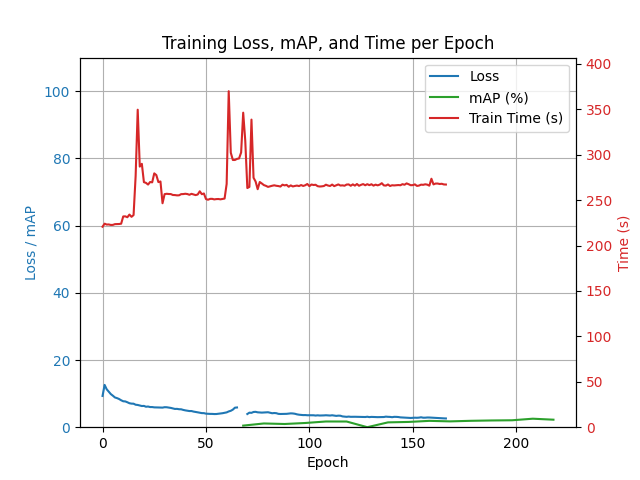
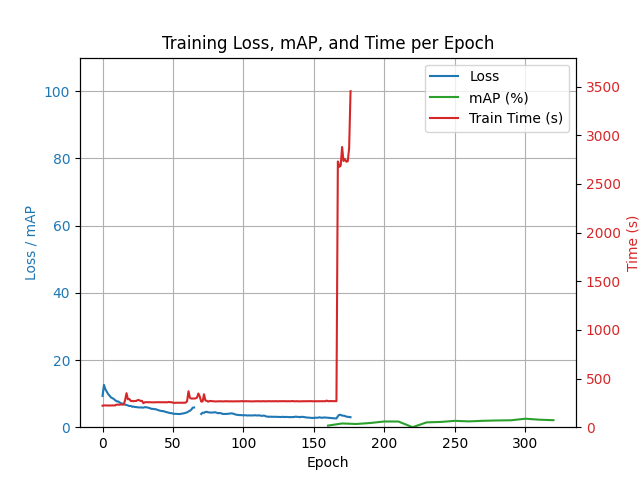
override metric if loading older epoch

diff --git a/YOLOv1/utils.py b/YOLOv1/utils.py
@@ -133,7 +133,6 @@ def batch_to_mAP_list(preds: torch.Tensor, targets: torch.Tensor):
     return preds_list, targets_list
 
 
-
 def plot_training_metrics(train_losses, map_scores, train_times, start_epoch, model_name, save_dir="images"):
     os.makedirs(f"{save_dir}/{model_name}", exist_ok=True)
 
@@ -142,7 +141,11 @@ def plot_training_metrics(train_losses, map_scores, train_times, start_epoch, mo
     # Loss and mAP on left axis
     ax1.plot(train_losses, label='Loss', color='tab:blue')
     if map_scores:
-        map_epochs = list(range(start_epoch + 10, start_epoch + 10 + 10 * len(map_scores), 10))
+        map_epochs = list(range(
+            start_epoch + config.EVAL_MAP_N,
+            start_epoch + config.EVAL_MAP_N + config.EVAL_MAP_N * len(map_scores),
+            config.EVAL_MAP_N
+        ))
         ax1.plot(map_epochs, [s * 100 for s in map_scores], label='mAP (%)', color='tab:green')
     ax1.set_xlabel("Epoch")
     ax1.set_ylabel("Loss / mAP", color='tab:blue')

diff --git a/YOLOv1/train.py b/YOLOv1/train.py
@@ -62,9 +62,9 @@ train_times = []
 metrics_path = f"metrics/{config.model_name}/train_metrics.pth"
 if os.path.exists(metrics_path):
     metrics = torch.load(metrics_path)
-    train_losses = metrics['losses']
-    map_scores = metrics['mAP']
-    train_times = metrics['train_times']
+    train_losses = metrics['losses'][:start_epoch]
+    map_scores = metrics['mAP'][:start_epoch // config.EVAL_MAP_N]  # because mAP is saved every 10 epochs
+    train_times = metrics['train_times'][:start_epoch]
     print(f"Loading saved metrics")
 
 # LR Scheduler

diff --git a/YOLOv1/config.py b/YOLOv1/config.py
@@ -3,8 +3,9 @@ import torch
 # Train settings
 EPOCHS = 200
 DATA_PATH = "data"
-BATCH_SIZE = 64
+BATCH_SIZE = 32
 LEARNING_RATE = 1e-4
+EVAL_MAP_N = 10
 
 device = torch.device("cpu")
 if torch.cuda.is_available():
